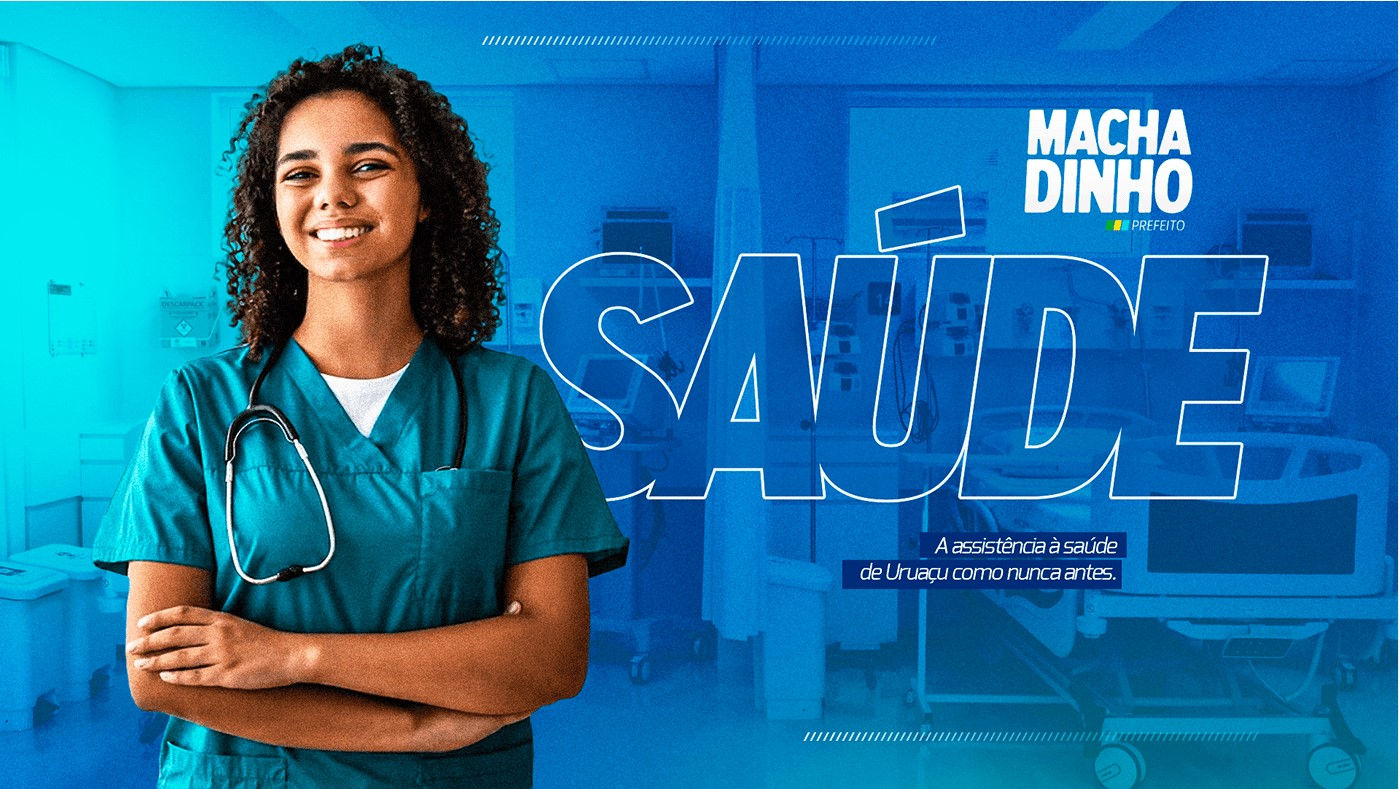
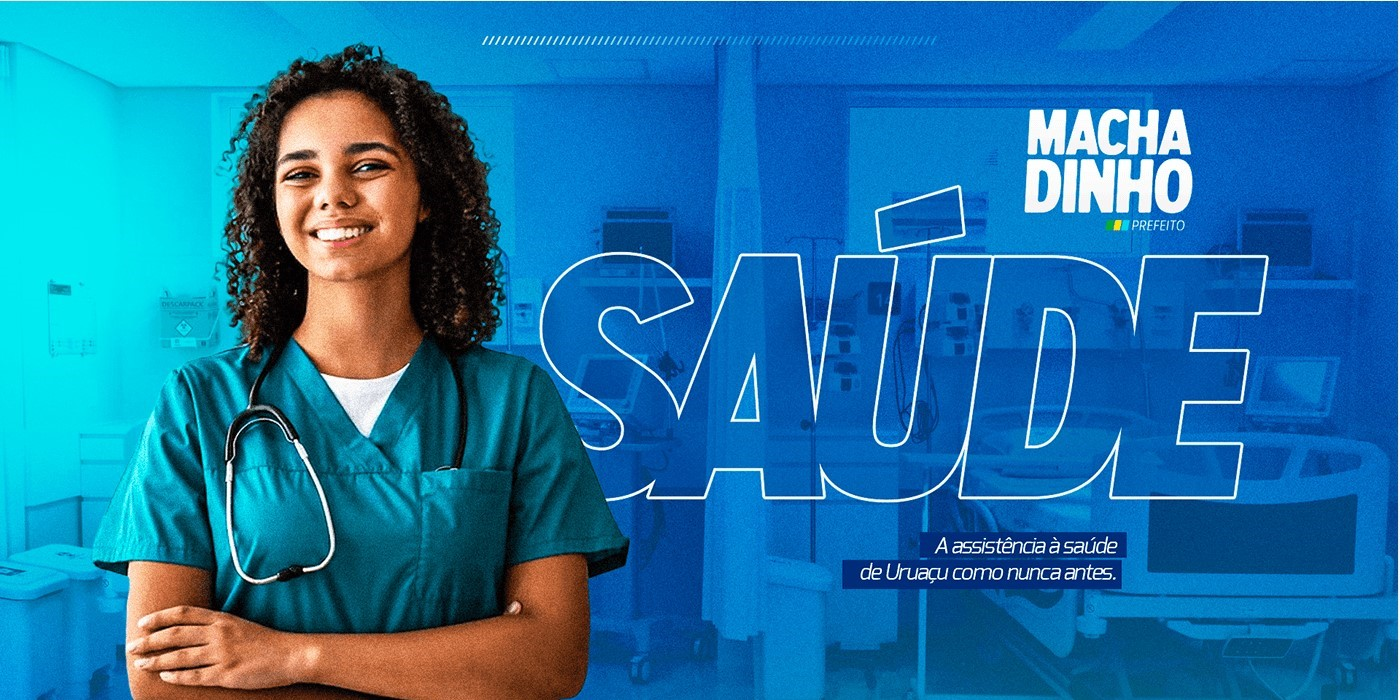
Resizeing and add new style on newsletter and Dopoimentos

diff --git a/src/app/components/Depoimentos/Depoimentos.jsx b/src/app/components/Depoimentos/Depoimentos.jsx
@@ -39,18 +39,12 @@ export default function Depoimentos() {
             alt="Image Depoimento"
           />
         </SwiperSlide>
-        <SwiperSlide>
+        {/* <SwiperSlide>
           <img
             src="https://images.unsplash.com/photo-1591451855781-9eb0f9726a33?q=80&w=1930&auto=format&fit=crop&ixlib=rb-4.0.3&ixid=M3wxMjA3fDB8MHxwaG90by1wYWdlfHx8fGVufDB8fHx8fA%3D%3D"
             alt="Image Depoimento"
           />
-        </SwiperSlide>
-        <SwiperSlide>
-          <img
-            src="https://images.unsplash.com/photo-1487546331507-fcf8a5d27ab3?q=80&w=2070&auto=format&fit=crop&ixlib=rb-4.0.3&ixid=M3wxMjA3fDB8MHxwaG90by1wYWdlfHx8fGVufDB8fHx8fA%3D%3D"
-            alt="Image Depoimento"
-          />
-        </SwiperSlide>
+        </SwiperSlide> */}
       </Swiper>
 
       {/* Area Text */}

diff --git a/src/app/components/Depoimentos/Depoimentos.module.css b/src/app/components/Depoimentos/Depoimentos.module.css
@@ -6,7 +6,7 @@
 /* area Image */
 .areaImage {
     width: 50%;
-    max-height: 520px;
+    /* max-height: 500px; */
 }
 
 .areaImage img {
